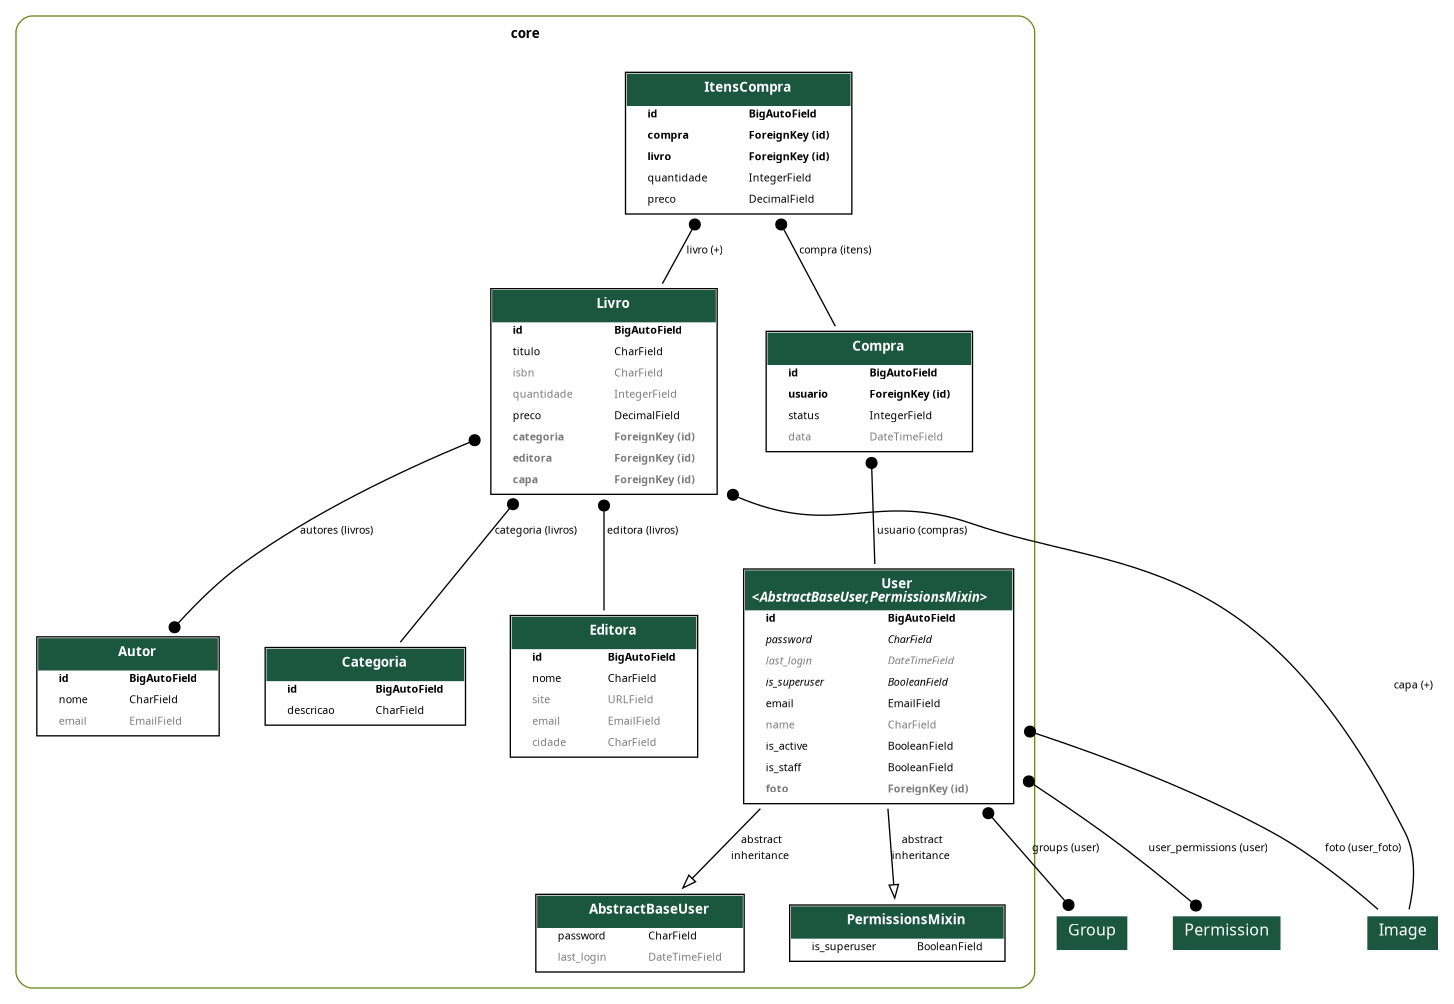
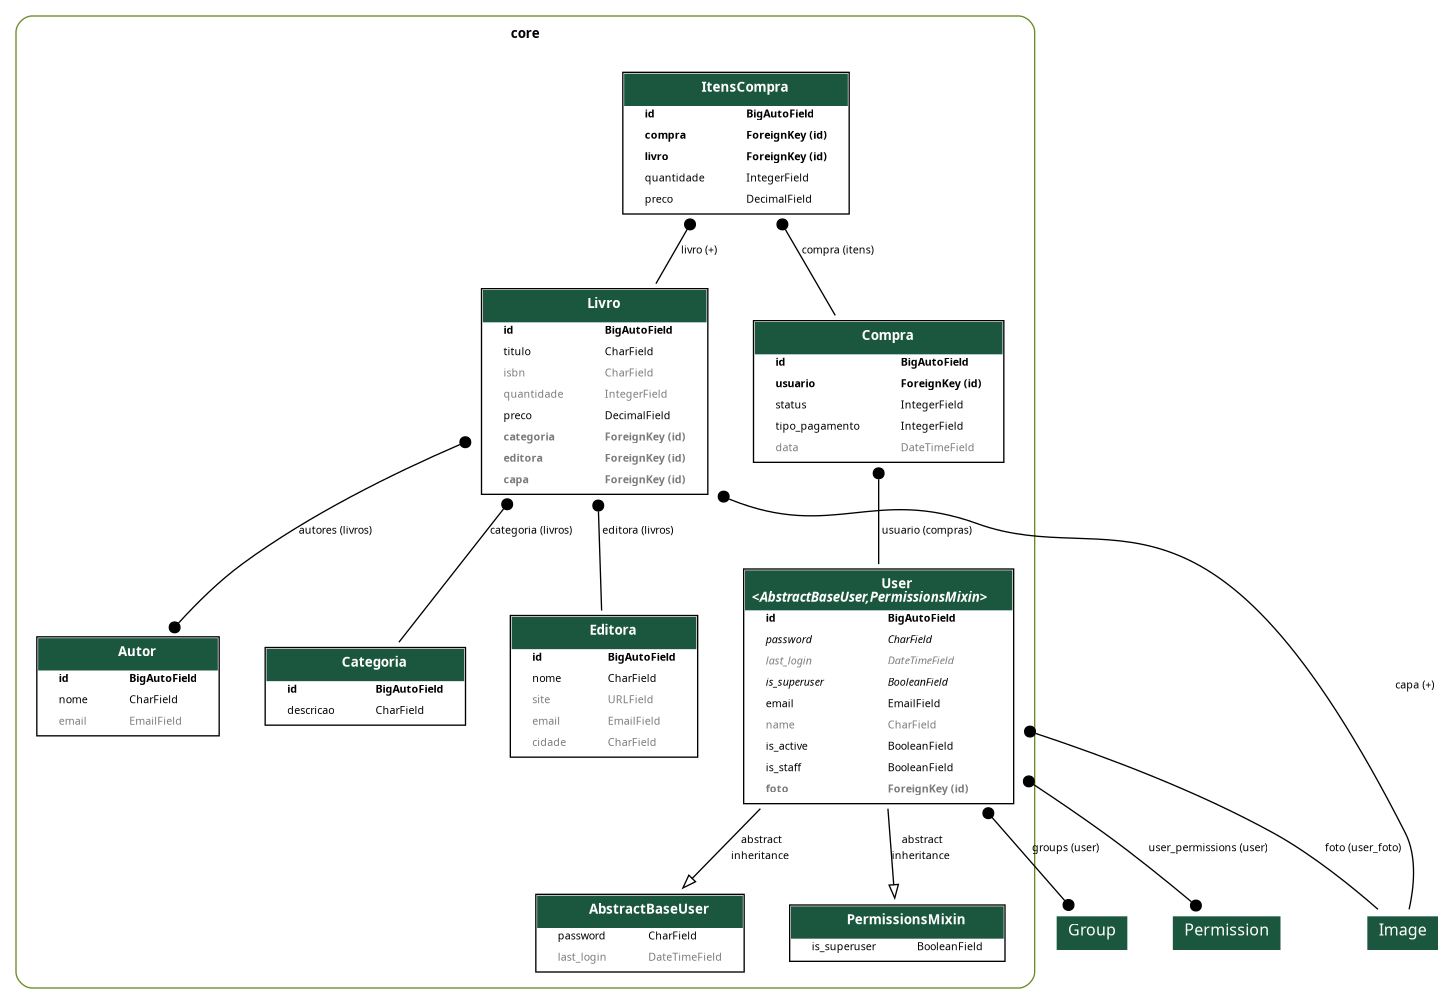
feat: 34 - adicionando tipo de pagamento à entidade de Compra

diff --git a/core/models/compra.py b/core/models/compra.py
@@ -1,5 +1,4 @@
 from django.db import models
-from django.utils import timezone
 
 from .livro import Livro
 from .user import User
@@ -12,8 +11,28 @@ class Compra(models.Model):
         PAGO = 3, 'Pago'
         ENTREGUE = 4, 'Entregue'
 
-    usuario = models.ForeignKey(User, on_delete=models.PROTECT, related_name='compras')
-    status = models.IntegerField(choices=StatusCompra.choices, default=StatusCompra.CARRINHO)
+    class TipoPagamento(models.IntegerChoices):
+        CARTAO_CREDITO = 1, 'Cartão de Crédito'
+        CARTAO_DEBITO = 2, 'Cartão de Débito'
+        PIX = 3, 'PIX'
+        BOLETO = 4, 'Boleto'
+        TRANSFERENCIA_BANCARIA = 5, 'Transferência Bancária'
+        DINHEIRO = 6, 'Dinheiro'
+        OUTRO = 7, 'Outro'
+
+    usuario = models.ForeignKey(
+        User,
+        on_delete=models.PROTECT,
+        related_name='compras'
+    )
+    status = models.IntegerField(
+        choices=StatusCompra.choices,
+        default=StatusCompra.CARRINHO
+    )
+    tipo_pagamento = models.IntegerField(
+        choices=TipoPagamento.choices,
+        default=TipoPagamento.PIX
+    )
     data = models.DateTimeField(auto_now_add=True)
 
     @property

diff --git a/core/serializers/compra.py b/core/serializers/compra.py
@@ -100,9 +100,10 @@ class CompraListSerializer(ModelSerializer):
 class CompraSerializer(ModelSerializer):
     usuario = CharField(source='usuario.email', read_only=True)
     status = CharField(source='get_status_display', read_only=True)
+    tipo_pagamento = CharField(source='get_tipo_pagamento_display', read_only=True)
     data = DateTimeField(read_only=True)
     itens = ItensCompraSerializer(many=True, read_only=True)
 
     class Meta:
         model = Compra
-        fields = ('id', 'usuario', 'status', 'data', 'total', 'itens')
+        fields = ('id', 'usuario', 'status', 'tipo_pagamento', 'data', 'total', 'itens')

diff --git a/core/admin.py b/core/admin.py
@@ -42,7 +42,7 @@ class ItensCompraInline(StackedInline):
 
 @register(Compra)
 class CompraAdmin(ModelAdmin):
-    list_display = ('usuario', 'status', 'data', 'total_formatado')
+    list_display = ('usuario', 'status', 'tipo_pagamento', 'data', 'total_formatado')
     search_fields = ('usuario', 'status')
     list_filter = ('usuario', 'status', 'data')
     ordering = ('usuario', 'status')
@@ -54,6 +54,7 @@ class CompraAdmin(ModelAdmin):
     def total_formatado(self, obj):
         """Exibe R$ 123,45 em vez de 123.45."""
         return f"R$ {obj.total:.2f}"
+
 
 @register(Editora)
 class EditoraAdmin(ModelAdmin):

diff --git a/core/migrations/0018_compra_tipo_pagamento.py b/core/migrations/0018_compra_tipo_pagamento.py
@@ -1,0 +1,18 @@
+# Generated by Django 5.2.13 on 2026-09-11 13:27
+
+from django.db import migrations, models
+
+
+class Migration(migrations.Migration):
+
+    dependencies = [
+        ('core', '0017_compra_data'),
+    ]
+
+    operations = [
+        migrations.AddField(
+            model_name='compra',
+            name='tipo_pagamento',
+            field=models.IntegerField(choices=[(1, 'Cartão de Crédito'), (2, 'Cartão de Débito'), (3, 'PIX'), (4, 'Boleto'), (5, 'Transferência Bancária'), (6, 'Dinheiro'), (7, 'Outro')], default=3),
+        ),
+    ]
